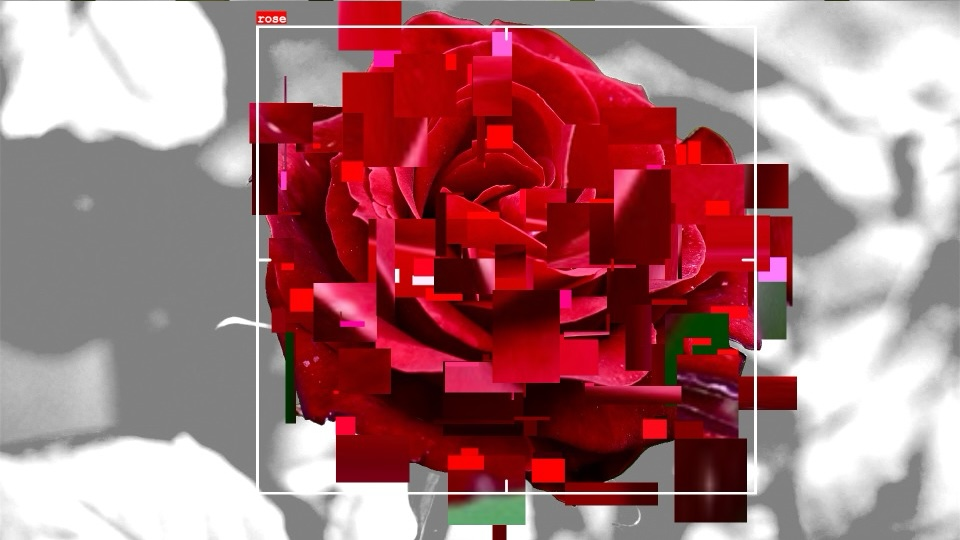
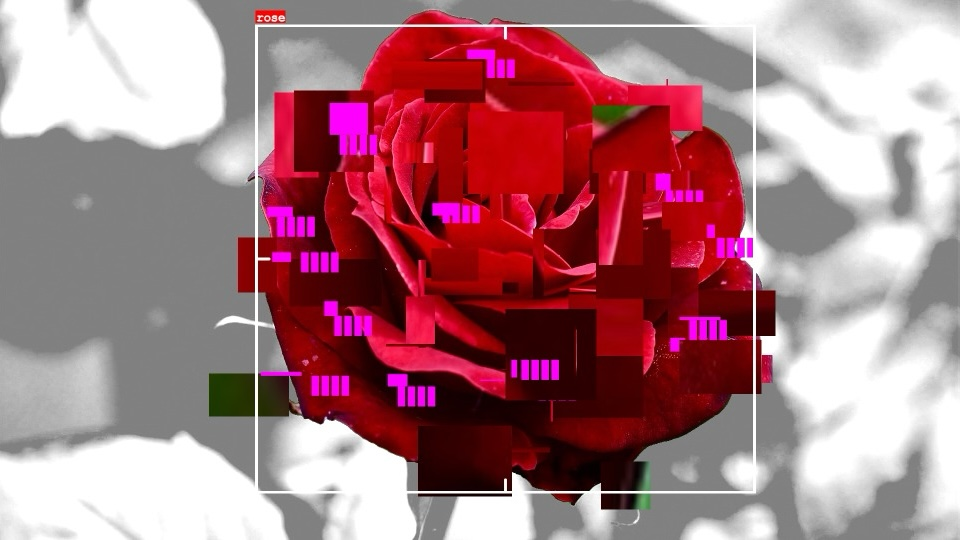
Repeating rectangle glitch

Changed region(s): [[0.2188, 0.0, 0.8438, 1.0], [0.2812, 0.8889, 0.3125, 0.9185], [0.0312, 0.237, 0.0625, 0.2667]]

diff --git a/sketch.js b/sketch.js
@@ -2,14 +2,14 @@ let sourceImg=null;
 let maskImg=null;
 let renderCounter=0;
 let curLayer = 0;
+let maskCenter = null; 
+let maskCenterSize = null; 
+let rectRepeat = [];
 
 // change these three lines as appropiate
 let sourceFile = "input_5.jpg";
 let maskFile   = "mask_5.png";
 let outputFile = "output_5.png";
-
-let maskCenter = null; 
-let maskCenterSize = null; 
 
 function preload() {
   sourceImg = loadImage(sourceFile);
@@ -30,6 +30,10 @@ function setup () {
 
   maskCenterSearcher(20);
   maskSizeFinder(20);
+
+  for (let x = 20; x < 100; x += 20) {
+    rectRepeat.push(x);
+  }
 }
 
 let X_STOP = 1920;
@@ -125,8 +129,7 @@ function draw () {
           let b = brightness(c);
           let newBrightness = map(b, 0, 100, 50, 100);
           let newColour = color(0, 0, newBrightness);
-          fill(newColour);
-          set(x, y,newColour);
+          set(x, y, newColour);
         }
       }
     }
@@ -137,31 +140,59 @@ function draw () {
     for(let i=0;i<15;i++) {
       colorMode(RGB, 100);
 
-      let sourceX = random(0, width);
-      let sourceY = random(0, height);
       let sourceW = random(-50, 50);
       let sourceH = random(-50, 50);
-      let destX = random(0, width);
-      let destY = random(0, height);
       let destW = random(-200, 200);
       let destH = random(-200, 200);
 
       let x1 = random(0, width);
       let y1 = random(0, height);
-      let x2 = x1 + random(-75, 75);
-      let y2 = y1 + random(-50, 50);
+      let x2 = x1 + random(-100, 100);
+      let y2 = y1 + random(-75, 75);
 
-      colorMode(RGB);
+
       let pixData = sourceImg.get(x1, y1);
       let maskData = maskImg.get(x1, y1);
-      fill(pixData, 50);
       noStroke();
 
       if(maskData[0] > 128) {
         imageMode(CORNERS);
+        fill(pixData);
         copy(sourceImg, x1, y1, sourceW, sourceH, x2, y2, destW, destH);
+      }
+    }
+
+    for(let i=0;i<5;i++) {
+      colorMode(RGB, 100);
+
+      let x1 = random(0, width);
+      let y1 = random(0, height);
+      let x2 = x1 + random(-100, 100);
+      let y2 = y1 + random(-75, 75);
+
+      let maskData = maskImg.get(x1, y1);
+      noStroke();
+
+      if(maskData[0] > 128) { 
+      
         rectMode(CORNERS);
+        colorMode(HSB, 360, 100, 100);
+        let mcw = maskCenterSize[0];
+        let mch = maskCenterSize[1];
+        let selectCenter = sourceImg.get(mcw, mch);
+        let c = color(selectCenter);
+        let hueValue = hue(c);
+        let mapHue = map(hueValue, 0, 360, 0, 120);
+        let newHue = 300 - mapHue;
+        let invertHue = color(newHue, 100, 100);
+        fill(invertHue);
         rect(x1, y1, x2, y2);
+        for(let i=0;i<1;i++) {
+          for (let i = 0; i < rectRepeat.length; i += 1) {
+            rectMode(CORNER);
+            rect(x1 + rectRepeat[i], y1, 15, 40);
+          }
+        }
       }
     }
   }

diff --git a/README.md b/README.md
@@ -23,9 +23,10 @@ The images above are photos of Wellington CBD algorithmically processed with a l
 | input_9 | ![Rose training image](https://inaturalist-open-data.s3.amazonaws.com/photos/388605398/medium.jpg) |  © Milan Kovačević  | [iNaturalist](https://www.inaturalist.org/photos/388605398) |
 | input_10 | ![Daisy training image](https://inaturalist-open-data.s3.amazonaws.com/photos/40495365/medium.jpeg) | © Kat | [iNaturalist Canada](https://www.inaturalist.org/photos/40495365)  |
 | input_new1 | ![Rose image for AI](https://inaturalist-open-data.s3.amazonaws.com/photos/388605481/medium.jpg) | © Milan Kovačević | [iNaturalist](https://www.inaturalist.org/photos/388605481) |
-| input_new2 | ![Daisy image for AI](https://inaturalist-open-data.s3.amazonaws.com/photos/21365414/medium.jpg) | © tobypcr | [iNaturalist](https://www.inaturalist.org/photos/21365414) |
-| input_new3 | ![Rose image for AI](https://inaturalist-open-data.s3.amazonaws.com/photos/508411783/large.jpg) | © Daniela Londoño | [iNaturalist](https://www.inaturalist.org/observations/282963690) |
+| input_new2 | ![Daisy image for AI](https://inaturalist-open-data.s3.amazonaws.com/photos/429269785/medium.jpg) | © Татьяна Химера | [iNaturalist](https://www.inaturalist.org/photos/429269785) |
+| input_new3 | ![Rose image for AI](https://inaturalist-open-data.s3.amazonaws.com/photos/273663408/small.jpeg) | © Eric Johnson | [iNaturalist](https://www.inaturalist.org/photos/273663408) |
 | input_new4 | ![Daisy image for AI](https://inaturalist-open-data.s3.amazonaws.com/photos/40713926/medium.jpeg) | © Kat | [iNaturalist Canada](https://www.inaturalist.org/photos/40713926) |
 | input_new5 | ![Rose image for AI](https://inaturalist-open-data.s3.amazonaws.com/photos/508379088/medium.jpg) | © ࣪࣪ ִֶָ⋆˚࿔★• | [iNaturalist](https://www.inaturalist.org/photos/5083790880) |
 | input_new6 | ![Daisy image for AI](https://inaturalist-open-data.s3.amazonaws.com/photos/508624440/medium.jpg) | 	© 林棋欽 | [愛自然-臺灣(iNaturalist Taiwan)](https://www.inaturalist.org/photos/508624440) |
 
+### Masks
